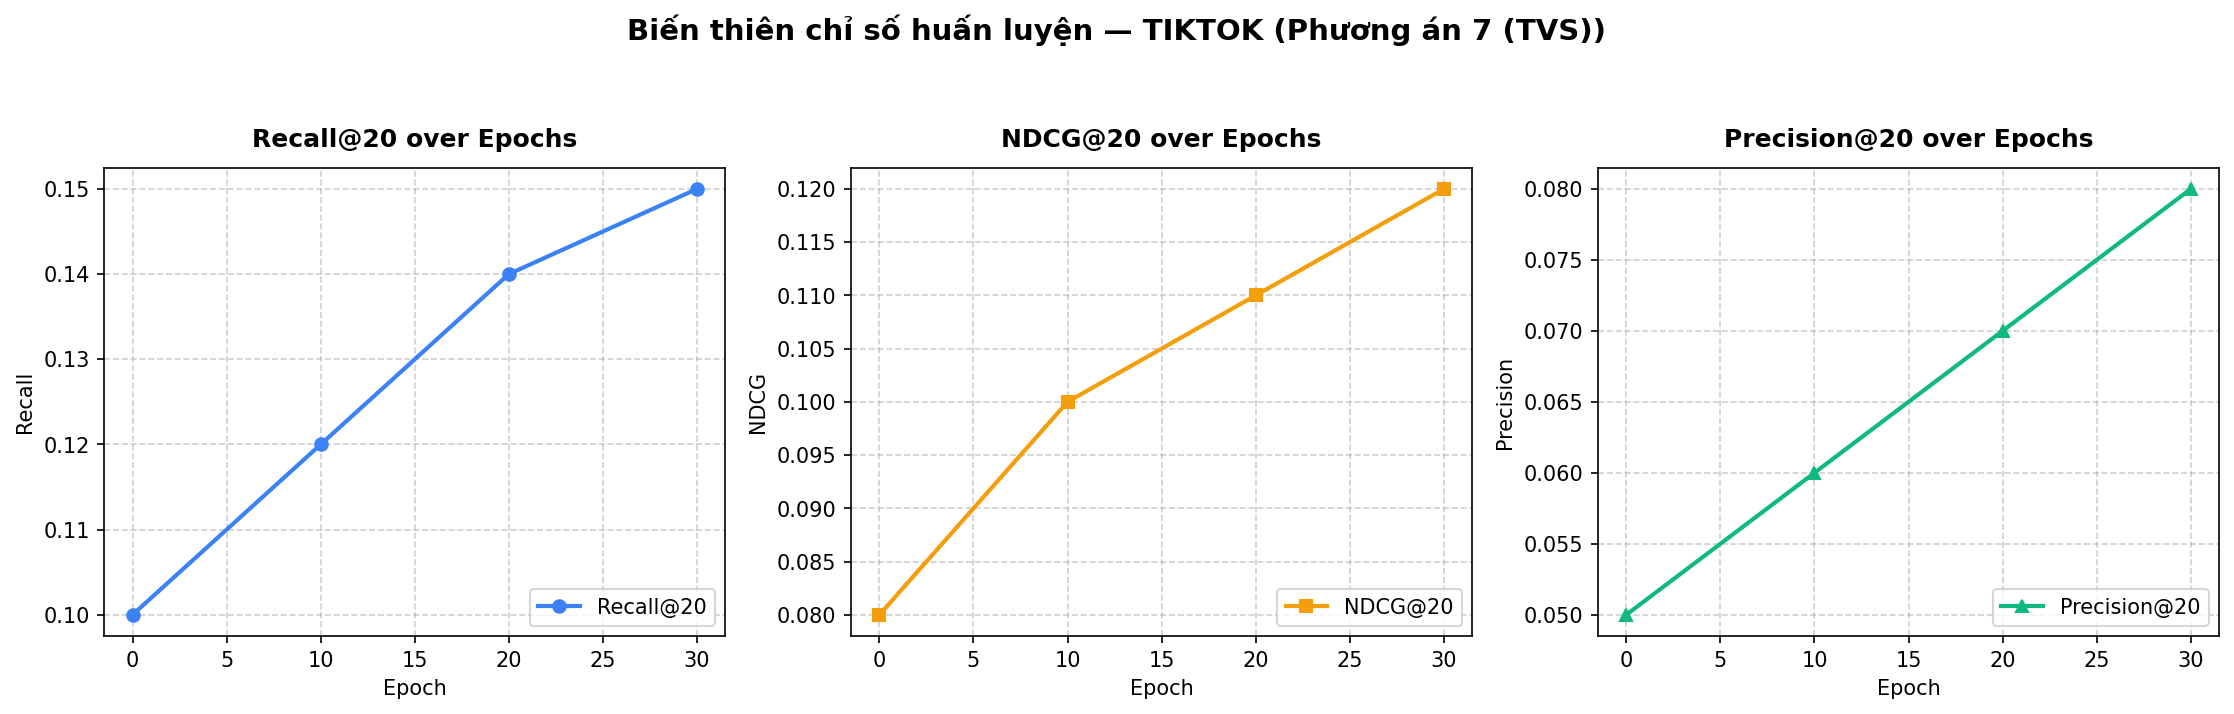
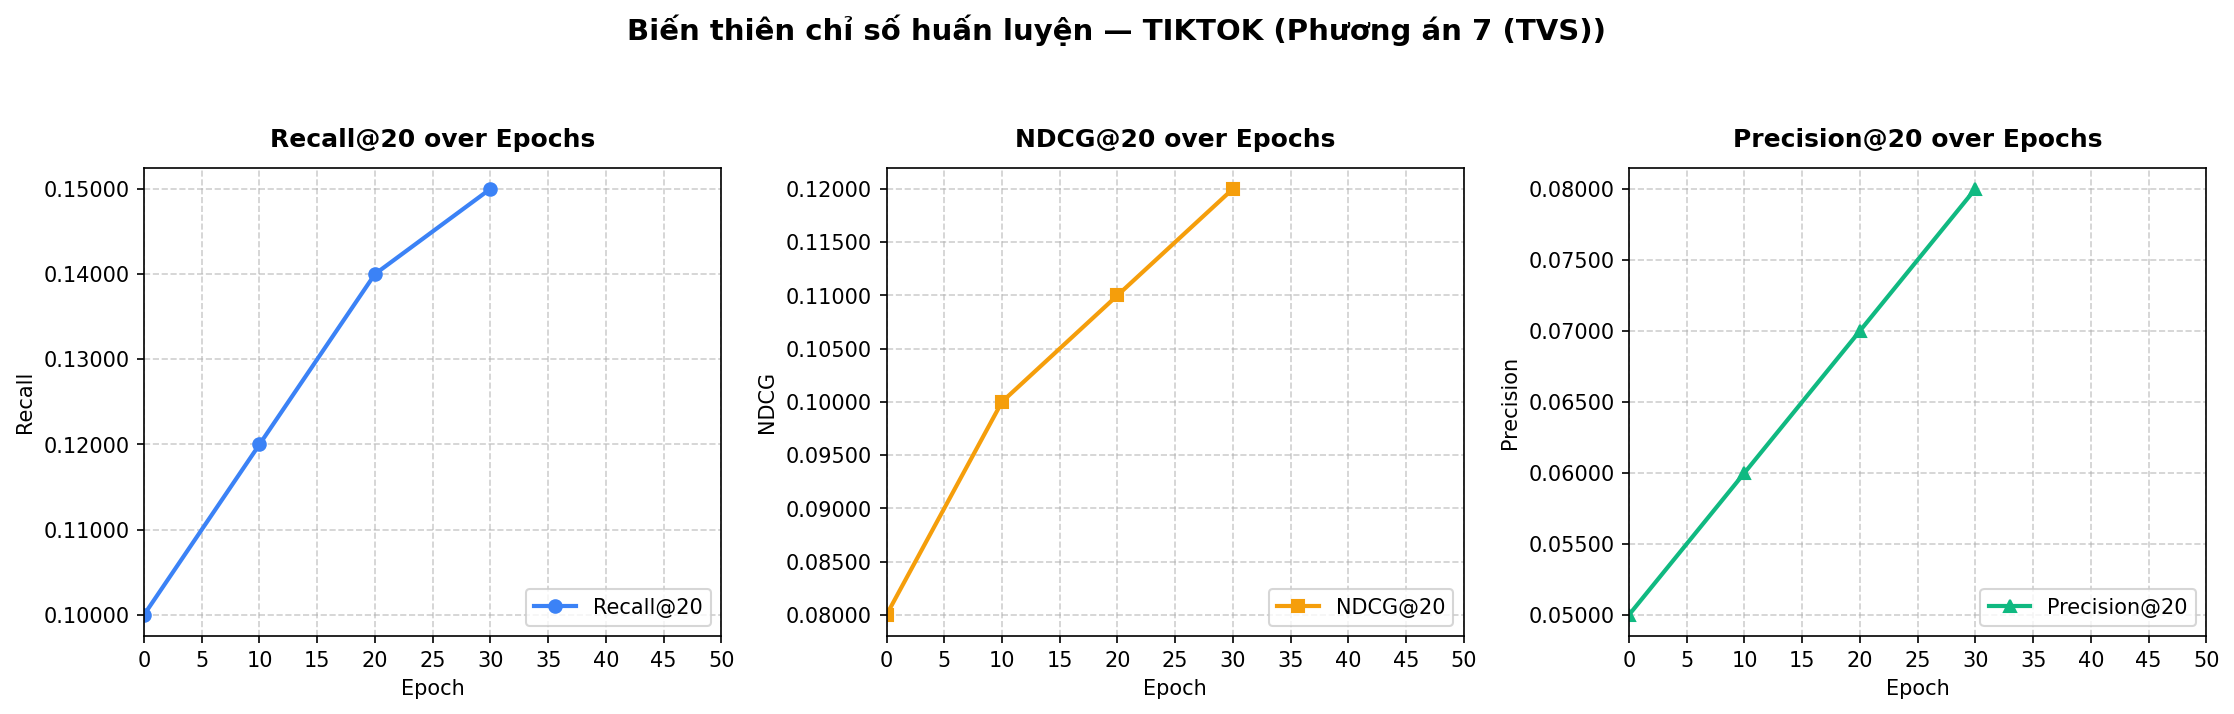
Support 5 decimal places precision and X-axis limits up to total epochs

diff --git a/Flow_Matching_2/phuong_an_7_tvs/DiffMM-TVS/Main.py b/Flow_Matching_2/phuong_an_7_tvs/DiffMM-TVS/Main.py
@@ -28,7 +28,7 @@ class Coach:
 		ret = 'Epoch %d/%d, %s: ' % (ep, args.epoch, name)
 		for metric in reses:
 			val = reses[metric]
-			ret += '%s = %.4f, ' % (metric, val)
+			ret += '%s = %.5f, ' % (metric, val)
 			tem = name + metric
 			if save and tem in self.metrics:
 				self.metrics[tem].append(val)
